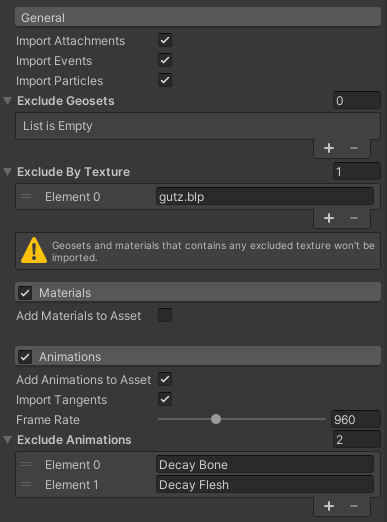
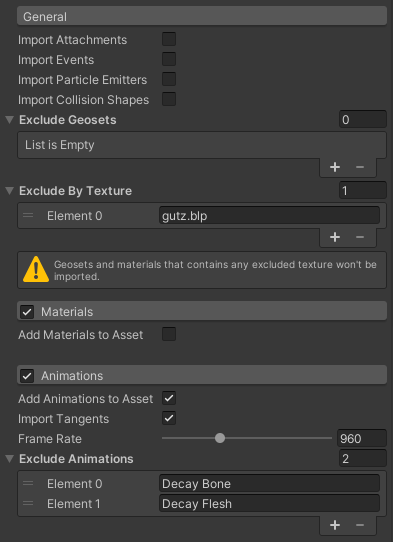
Added collision shapes import feature

diff --git a/Runtime/MdxModel.cs b/Runtime/MdxModel.cs
@@ -35,7 +35,6 @@ public class MdxModel
 
         ReadFile();
 
-        // Import the mesh.
         ImportMesh();
         gameObject = new GameObject();
         MeshFilter filter = gameObject.AddComponent<MeshFilter>();
@@ -43,37 +42,35 @@ public class MdxModel
         SkinnedMeshRenderer renderer = gameObject.AddComponent<SkinnedMeshRenderer>();
         renderer.sharedMesh = mesh;
 
-        // Import the materials.
         if( settings.importMaterials )
         {
             ImportMaterials(renderer);
         }
 
-        // Import the skeleton.
         ImportSkeleton(renderer);
-
-        // Import the animations.
         if( settings.importAnimations )
         {
             ImportAnimations();
         }
 
-        // Import the attachments.
         if( settings.importAttachments )
         {
             ImportAttachments();
         }
 
-        // Import the events.
         if( settings.importEvents )
         {
             ImportEvents();
         }
 
-        // Import the particles.
-        if( settings.importParticles )
+        if( settings.importParticleEmitters )
         {
-            ImportParticles();
+            ImportParticleEmitters();
+        }
+
+        if( settings.importCollisionShapes )
+        {
+            ImportCollisionShapes();
         }
     }
 
@@ -804,13 +801,13 @@ public class MdxModel
         }
     }
 
-    private void ImportParticles()
+    private void ImportParticleEmitters()
     {
-        CObjectContainer<CParticleEmitter> cparticles = cmodel.ParticleEmitters;
-        for( int i = 0; i < cparticles.Count; i++ )
+        CObjectContainer<CParticleEmitter> cemitters = cmodel.ParticleEmitters;
+        for( int i = 0; i < cemitters.Count; i++ )
         {
-            CParticleEmitter cparticle = cparticles.Get(i);
-            CreateGameObject(cparticle.Name, cparticle.PivotPoint, cparticle.Parent.NodeId);
+            CParticleEmitter cemitter = cemitters.Get(i);
+            CreateGameObject(cemitter.Name, cemitter.PivotPoint, cemitter.Parent.NodeId);
         }
 
         CObjectContainer<CParticleEmitter2> cparticles2 = cmodel.ParticleEmitters2;
@@ -821,7 +818,33 @@ public class MdxModel
         }
     }
 
-    private void CreateGameObject( string name, CVector3 pivot, int parentId )
+    private void ImportCollisionShapes()
+    {
+        CObjectContainer<CCollisionShape> cshapes = cmodel.CollisionShapes;
+        for( int i = 0; i < cshapes.Count; i++ )
+        {
+            CCollisionShape cshape = cshapes.Get(i);
+            GameObject gameObject = CreateGameObject(cshape.Name, cshape.PivotPoint, cshape.Parent.NodeId);
+
+            switch( cshape.Type )
+            {
+                case ECollisionShapeType.Box:
+                {
+                    BoxCollider collider = gameObject.AddComponent<BoxCollider>();
+                    collider.size = cshape.Vertex2.ToVector3() - cshape.Vertex1.ToVector3();
+                    break;
+                }
+                case ECollisionShapeType.Sphere:
+                {
+                    SphereCollider collider = gameObject.AddComponent<SphereCollider>();
+                    collider.radius = cshape.Radius;
+                    break;
+                }
+            }
+        }
+    }
+
+    private GameObject CreateGameObject( string name, CVector3 pivot, int parentId )
     {
         GameObject gameObject = new GameObject(name);
 
@@ -840,6 +863,8 @@ public class MdxModel
         {
             gameObject.transform.SetParent(skeleton.transform);
         }
+
+        return gameObject;
     }
 
     private string GetPath( GameObject bone )

diff --git a/Editor/MdxScriptedImporterInspector.cs b/Editor/MdxScriptedImporterInspector.cs
@@ -7,7 +7,8 @@ public class MdxScriptedImporterInspector : ScriptedImporterEditor
     // General.
     private SerializedProperty importAttachments;
     private SerializedProperty importEvents;
-    private SerializedProperty importParticles;
+    private SerializedProperty importParticleEmitters;
+    private SerializedProperty importCollisionShapes;
     private SerializedProperty excludeGeosets;
     private SerializedProperty excludeByTexture;
 
@@ -27,7 +28,8 @@ public class MdxScriptedImporterInspector : ScriptedImporterEditor
         // General.
         importAttachments = serializedObject.FindProperty("importAttachments");
         importEvents = serializedObject.FindProperty("importEvents");
-        importParticles = serializedObject.FindProperty("importParticles");
+        importParticleEmitters = serializedObject.FindProperty("importParticleEmitters");
+        importCollisionShapes = serializedObject.FindProperty("importCollisionShapes");
         excludeGeosets = serializedObject.FindProperty("excludeGeosets");
         excludeByTexture = serializedObject.FindProperty("excludeByTexture");
 
@@ -55,7 +57,8 @@ public class MdxScriptedImporterInspector : ScriptedImporterEditor
         CustomGUILayout.Title("General");
         EditorGUILayout.PropertyField(importAttachments, true);
         EditorGUILayout.PropertyField(importEvents, true);
-        EditorGUILayout.PropertyField(importParticles, true);
+        EditorGUILayout.PropertyField(importParticleEmitters, true);
+        EditorGUILayout.PropertyField(importCollisionShapes, true);
         EditorGUILayout.PropertyField(excludeGeosets, true);
         EditorGUILayout.PropertyField(excludeByTexture, true);
         EditorGUILayout.HelpBox("Geosets and materials that contains any excluded texture won't be imported.", MessageType.Warning);

diff --git a/Editor/MdxScriptedImporter.cs b/Editor/MdxScriptedImporter.cs
@@ -10,7 +10,8 @@ public class MdxScriptedImporter : ScriptedImporter
     // General.
     public bool importAttachments = false;
     public bool importEvents = false;
-    public bool importParticles = false;
+    public bool importParticleEmitters = false;
+    public bool importCollisionShapes = false;
     public List<int> excludeGeosets = new List<int>();
     public List<string> excludeByTexture = new List<string>() { "gutz.blp" };
 
@@ -34,7 +35,8 @@ public class MdxScriptedImporter : ScriptedImporter
         {
             importAttachments = importAttachments,
             importEvents = importEvents,
-            importParticles = importParticles,
+            importParticleEmitters = importParticleEmitters,
+            importCollisionShapes = importCollisionShapes,
             excludeGeosets = excludeGeosets,
             excludeByTexture = excludeByTexture,
             importMaterials = importMaterials,

diff --git a/Runtime/MdxImportSettings.cs b/Runtime/MdxImportSettings.cs
@@ -5,7 +5,8 @@ public class MdxImportSettings
     // General.
     public bool importAttachments = true;
     public bool importEvents = true;
-    public bool importParticles = true;
+    public bool importParticleEmitters = true;
+    public bool importCollisionShapes = true;
     public List<int> excludeGeosets = new List<int>();
     public List<string> excludeByTexture = new List<string>();
 

diff --git a/README.md b/README.md
@@ -13,7 +13,8 @@ MDX/MDL to Unity importer.
 - [x] Animations
 - [x] Attachments
 - [x] Events
-- [x] Particles
+- [x] Particle Emitters
+- [x] Collision Shapes
 
 ## Settings
 
@@ -21,7 +22,8 @@ MDX/MDL to Unity importer.
 
 * Import attachments.
 * Import events.
-* Import particles.
+* Import particle emitters.
+* Import collission shapes.
 * Exclude geosets by ID.
 * Exclude geosets and materials by texture name.
 * Import materials independent from the asset.
